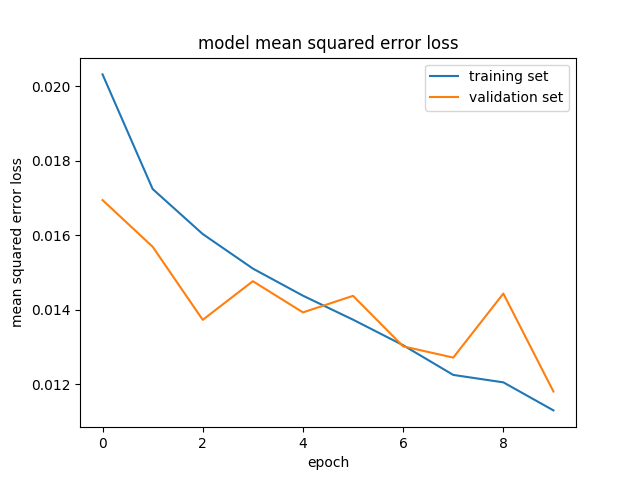
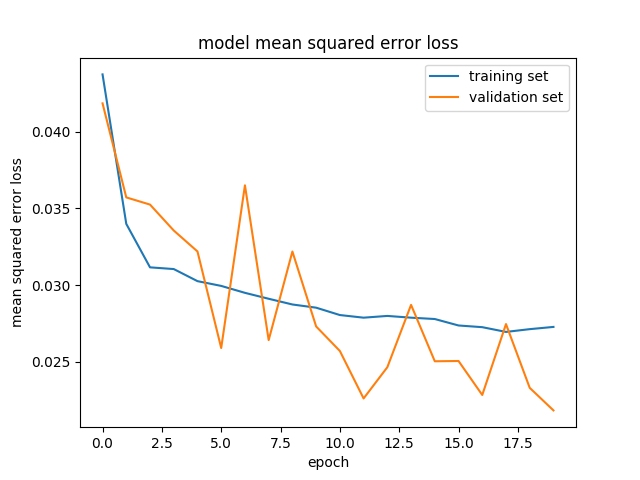
improve report

diff --git a/model.py b/model.py
@@ -71,16 +71,16 @@ def nvidia_model():
 
     # five convolutional layers
     model.add(Convolution2D(24, 5, 5, subsample=(2,2), activation='relu'))
-    model.add(Dropout(0.5))
+    # model.add(Dropout(0.5))
     model.add(Convolution2D(36, 5, 5, subsample=(2,2), activation='relu'))
-    model.add(Dropout(0.5))
+    # model.add(Dropout(0.5))
     model.add(Convolution2D(48, 5, 5, subsample=(2,2), activation='relu'))
-    model.add(Dropout(0.5))
+    # model.add(Dropout(0.5))
 
     model.add(Convolution2D(64, 3, 3, activation='relu'))
-    model.add(Dropout(0.5))
+    # model.add(Dropout(0.5))
     model.add(Convolution2D(64, 3, 3, activation='relu'))
-    model.add(Dropout(0.5))
+    # model.add(Dropout(0.5))
 
     # flatten
     model.add(Flatten())
@@ -184,7 +184,7 @@ def data_exploration():
 
     ax_arr[1].imshow(np.fliplr(img))
     ax_arr[1].set_title('flipped image', fontsize=20)
-    ax_arr[0].set_xlabel('steering {0:.4f}'.format(-angle), fontsize=20)
+    ax_arr[1].set_xlabel('steering {0:.4f}'.format(-angle), fontsize=20)
 
     plt.savefig('output_images/image_flip.png')
     plt.show()
@@ -204,6 +204,8 @@ if __name__ == '__main__':
 
     samples = preprocess_data(samples)
     angles = [float(sample[3]) for sample in samples]
+
+    print(len(samples))
     # plt.hist(angles)
     # plt.savefig('output_images/angle_hist_sample.png')
     # plt.show()

diff --git a/writeup_report.md b/writeup_report.md
@@ -12,8 +12,8 @@
 [image1]: ./output_images/image_crop_65.png "Cropping"
 [image2]: ./output_images/image_flip.png "Flip Image"
 [image3]: ./output_images/error.png "Error"
-[image4]: ./examples/placeholder_small.png "Recovery Image"
-[image5]: ./examples/placeholder_small.png "Recovery Image"
+[image4]: ./output_images/angle_hist.png "Angle distribution"
+[image5]: ./output_images/angle_hist_sample.png "Angle distribution after sampling"
 [image6]: ./examples/placeholder_small.png "Normal Image"
 [image7]: ./examples/placeholder_small.png "Flipped Image"
 
@@ -48,9 +48,9 @@ The model.py file contains the code for training and saving the convolution neur
 
 I start with this paper:
 
-End to End Learning for Self-Driving Cars. Mariusz Bojarski, Davide Del Testa, Daniel Dworakowski, Bernhard Firner, Beat Flepp, Prasoon Goyal, Lawrence D. Jackel, Mathew Monfort, Urs Muller, Jiakai Zhang, Xin Zhang, Jake Zhao, Karol Zieba, By NIVIDIA 2016.
+End to End Learning for Self-Driving Cars. Mariusz Bojarski, Davide Del Testa, Daniel Dworakowski, Bernhard Firner, Beat Flepp, Prasoon Goyal, Lawrence D. Jackel, Mathew Monfort, Urs Muller, Jiakai Zhang, Xin Zhang, Jake Zhao, Karol Zieba, By NVIDIA 2016.
 
-I think this model would be a good start because it is used to train a network to drive a real self-driving car. They leveraged ~ 100 hours real data and showed that this artichitecture allows to train a good model which gives ~98% autonomy.
+I think this model would be a good start because it is used to train a network to predict steering angle of a self-driving car. They leveraged about 100 hours real data and showed that this artichitecture allows to train a good model which could give ~98% autonomy.
 
 The architecture introduced in the paper is like:
 ![alt text][image0]
@@ -60,10 +60,10 @@ The paper use 66x220x3 images in YUV color space.
 
 ####1. Model arcthiecture
 
-My network is very similar with NIVIDIA network. It is composed of three convolutional layers and three fully connected layers.
+My network is very similar with NVIDIA's network. It is composed of five convolutional layers and three fully connected layers.
 
-The implementation is in the function `nvidia_model` in lines 52 through 87 in the file `./model.py`.
-The final model architecture consists of a convolution neural network with the following layers and layer sizes:
+The implementation is in the function `nvidia_model()` in lines 56 through 97 in the file `./model.py`. 
+The final model architecture consists the following layers and layer sizes:
 
 * Input RGB image (3@160x320)
 * Cropping layer (3@70x320)
@@ -79,9 +79,9 @@ The final model architecture consists of a convolution neural network with the f
 * Fully connected + Relu activation. Output 10 nodes.
 * Output -> 1 node
 
-The model take RGB images of original size (with lowest resolution 160x320x3). Cropping and normalization is added directly to the beginning layers to the network so that the computation could leverage the GPU and the same operation will be done on test image automatically.
+The model takes RGB images of original size (with lowest resolution 160x320x3). Cropping and normalization are added directly as beginning layers so that the computation could leverage the GPU and the same operation will be done on test image automatically.
 
-The network first crops the image to remove upper part which contain major far background like sky, trees which would not be very helpful for driving decision. The lowest part is also removed since it contains car hook.
+The network first crops the image to remove upper part which contain majorly far background like sky, trees which would not be very helpful for driving decision. The lowest part is also removed since it contains car hook.
 
  The following figure shows a comparison between original images (upper row) and cropped images (bottom):
 
@@ -89,47 +89,42 @@ The network first crops the image to remove upper part which contain major far b
 
 The second layer does the normalization on the cropped images. Pixel values are normalized to `[-0.5, 0.5]`
 
-The following layers look like the architecture introduced in the paper, 
-Dropout layers are added to prevent overfitting.
+The following layers look like the architecture introduced in the paper, I add dropout layers to prevent overfitting.
 
 
 ####2. Data Collection
 
-I used sample images from center camera, left camera and right camera with error correction to do the training. 
+I use sample images to train the model. 
 
-I tried to collect own data to train, the result is similar but the driving routine is not very smooth. So then I only use sample images to train the model.
+Training with my own data can achieve similar behavior and keep the car stay on the track too.  But the trajecotory does not look very smooth. I guess the reason is I'm a terrible driver...
 
+Images from the left and the right camera are also added for learning recovering. A correction steering angle is added (0.2 for left camera images and -0.2 for right angle images).
 
-I found that my first model had a low mean squared error on the training set but a high mean squared error on the validation set. This implied that the model was overfitting.
+I flip every image (line 127 - 128) to augment data. So that I have more image for training, and the distribution of data for left and right turn is balanced.
 
-Then I flip every image to augmente dataset.
 ![alt text][image2]
 
-To capture good driving behavior, I first recorded two laps on track one using center lane driving. Here is an example image of center lane driving:
+The distribution of steering angle in the data is like this, where zero angle images are dominant.
+![alt text][image4]
 
-I then recorded the vehicle recovering from the left side and right sides of the road back to center so that the vehicle would learn to .... These images show what a recovery looks like starting from ... :
+So I removed randomly 80% of the images with zero angle, to let the distribution more balanced, like this
+![alt text][image5]
 
-Then I repeated this process on track two in order to get more data points.
-
-To augment the data sat, I also flipped images and angles thinking that this would ... For example, here is an image that has then been flipped:
-
-
+But unfortunately, I did not observe much improve in the performance.
 
 ####3. Creation of the Training Set & Training Process
 
-The model was trained and validated on different data sets to ensure that the model was not overfitting (code line 10-16).
+I random shuffled the data set and put 20%  of the data into a validation set, in order to get an idea about whether the model is over or under fitting. . For splitting the data I use `sklearn.model_selection.train_test_split` in line 219 in `./model.py`.
 
-I random shuffled the data set and put 20%  of the data into a validation set, in order to get an idea about whether the model is over or under fitting. . For splitting the data I use `sklearn.model_selection.train_test_split` in line 177 in `./model.py`.
+The model uses an adam optimizer, so that the learning rate is adapted automatically during training. (`./model.py` line 229-230). The training process optimizes mean square error between network output and ground truth steering angle.
 
-The model uses an adam optimizer, so that the learning rate is adapted automatically during training. (`./model.py` line 211). The training process optimizes mean square error between network output and ground truth steering angle.
+Finally 21822 images are used in the training, and 5460 images are used in the validation.
 
-I sampled evenly 50% of the data since the neighboring images look very similar and less images will reduce training time.
-
-Finally 19284 images are used in training.
-
-I used 20 epochs.
+I used 20 epochs. The following figure shows that the training error does not decrease after 17~18 epochs.
 
 ![alt text][image3]
+
+However, in all the experiments, I did not observe much overfitting phenomenon, even when I didnot add dropout layer. And the validation error could be smaller than training error even after sufficient round of training.
 
 
 #### 4. Test
@@ -138,13 +133,15 @@ The final step was to run the simulator to see how well the car was driving arou
 
 It was actually suprising that using only the sample images to training three epochs already enables the car to drive autonomously around the track without leaving the road.
 
-There were a few spots where the vehicle fell off the track... to improve the driving behavior in these cases, I ....
-
-Here's a [link to my video result](./result_track1.mp4)
+Here's a [link to my video result](./run4_track1.mp4)
 
 ### Discussion
 
 *  If the driving condition contains a lot of change in lighting condition, then maybe transform RGB image into other color space will increase robustness (In NVIDIA's paper, they actually use YUV space). But here in the simulator, there is not much change in the illumination. So I use directly RGB color space.
+
+* The fact of reducing number of sample images with zero steering angle actually has an effect of driving the car more adventuously (drift to close to the lane, but being able to recover it)
+
+* Maybe collecting recovering data from off-the-lane would have better recovering information as it covers more possibilities than just using left and right camera. Leave to future exploration.
 
 
  
